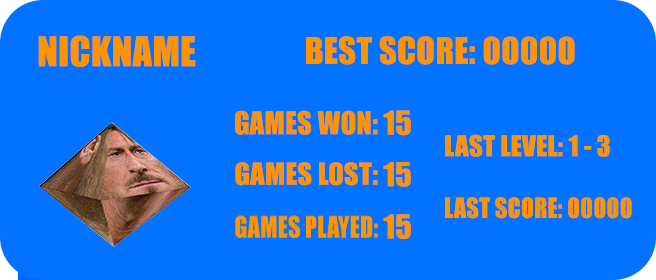
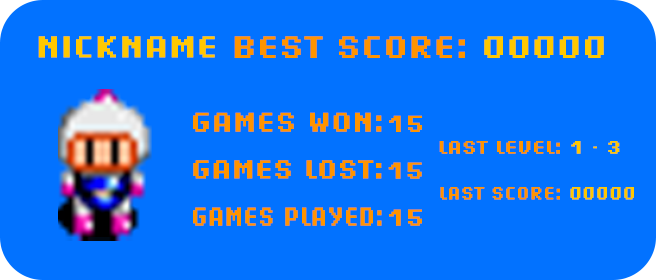
Score ok

diff --git a/src/main/ScoreMenu.java b/src/main/ScoreMenu.java
@@ -4,6 +4,8 @@ import java.awt.Graphics2D;
 import java.awt.Rectangle;
 import java.awt.image.BufferedImage;
 import java.util.ArrayList;
+import java.util.HashMap;
+import java.util.Map;
 import java.awt.BasicStroke;
 import java.awt.Color;
 
@@ -17,62 +19,112 @@ public class ScoreMenu implements Panel{
     KeyHandler keyH = KeyHandler.getInstance(); 
     
     ArrayList<BufferedImage> letters = new ArrayList<>();
+    ArrayList<BufferedImage> numbers = new ArrayList<>();
+    Map<String, BufferedImage> characters = new HashMap<>();
 
-    BufferedImage backgroundImage, difficultyOptionImage, movementOptionImage, backImage, pointerImage, pointerDownImage, pointerUpImage, scoreBox;
-    int boxX, boxY, boxWidth, boxHeight, nicknameX, nicknameY, letterDistance, optionX, optionY, startPointerX, pointerX, pointerY, pointerIndex = 0, pointerWidth, pointerHeight, choosePointerX, choosePointerUpY, choosePointerDownY, choosePointerWidth, choosePointerHeight, borderOffset, borderX, borderHeight, optionWidth, optionHeight, optionDistance, chooseDistance, totOptionNumber;
-    // BufferedImage[] avatarImages = new BufferedImage[2];
+    BufferedImage backgroundImage, backImage, pointerImage, pointerLeftImage, pointerRightImage, scoreBox;
+    int nicknameX, nicknameY, borderOffset, borderX, borderWidth, borderHeight;  // nickname
+    int boxX, boxY, boxWidth, boxHeight, nicknameLetterDistance, gamesLetterDistance, lastLetterDistance;  // box e lettere
+    int bestScoreX, lastInfoX, lastInfoY, gamesInfoX, gamesInfoY, infoDistance; // informazioni
+    int avatarX, avatarY, avatarWidth, avatarHeight;
+    int backImageX, backImageY, backImageWidth, backImageHeight;
+    int startPointerX, startPointerY, pointerX, pointerY, backPointerX, backPointerY, pointerIndex = 0, pointerWidth, pointerHeight, pointerOptionDistance, choosePointerX, choosePointerWidth, choosePointerHeight;
+    int avatarPointerX, avatarPointerY, avatarPointerWidth, avatarPointerHeight, avatarPointerDistance;
+    BufferedImage[] avatarImages = new BufferedImage[4];
     BufferedImage avatarImage;
-    String nicknameString = "user";
-    int selectedAvatarIndex = 1, nicknameLenght = 4, maxNicknameLenght = 10;  // difficulty: normal | movement: keyboard
+    String nicknameString = "nickname", bestScoreString = "00000", lastGameString = "1-2", lastScoreString = "00000", gamesWonString = "00", gamesLostString = "00", gamesPlayedString = "00";
+    int selectedAvatarIndex = 0, totAvatarOption = 4, maxNicknameLenght = 8, scoreLenght = 1, scoreMaxLenght = 6, scoreDefault = 0, totOptionNumber = 3, gpScale;  // difficulty: normal | movement: keyboard
     boolean nicknameSelect = false, avatarSelect = false;
     public ScoreMenu(GamePanel gp){
-        totOptionNumber = 2;
-        boxX = 15*gp.scale;
-        boxY = 15*gp.scale;
+        gpScale = gp.scale;
+        boxX = 15*gpScale;
+        boxY = 15*gpScale;
         boxWidth = gp.screenWidth - boxX*2;
         boxHeight = gp.screenHeight/2;
-        optionWidth = 55*gp.scale; //111*gp.scale / 2
-        optionHeight = 10*gp.scale;
-        nicknameX = (gp.screenWidth - optionWidth*2)/2+ optionWidth;
-        nicknameY = (gp.screenWidth - optionWidth*2)/2 - 140;
-        letterDistance = 16*gp.scale;
-        optionX = (gp.screenWidth - optionWidth*2)/2 ;
-        optionY = (gp.screenHeight - optionHeight)/2 - 140;
-        pointerWidth = 8*gp.scale;
-        pointerHeight = 12*gp.scale;
-        choosePointerWidth = 6*gp.scale;
-        choosePointerHeight = 8*gp.scale;
-        pointerX = optionX - pointerWidth - 3*gp.scale;  // distanza di partenza del pointer
-        startPointerX = optionX - 1*gp.scale;
+        // nickname info
+        nicknameX = 25*gpScale;
+        nicknameY = 30*gpScale;
+        nicknameLetterDistance = 8*gpScale;
+        // nickname border info
+        borderOffset = 2*gpScale;
+        borderWidth = nicknameLetterDistance*8 + borderOffset*2;
+        borderHeight = nicknameLetterDistance + borderOffset*2;
+        // avatar info
+        avatarX = nicknameX + 7*gpScale;
+        avatarY = nicknameY + 20*gpScale;
+        avatarWidth = gp.player.hittableWidth * 2;
+        avatarHeight = gp.player.hittableHeight * 2;
+        // avatar pointer index
+        avatarPointerWidth = 8*gpScale;
+        avatarPointerHeight = 12*gpScale;
+        avatarPointerX = avatarX - 10*gpScale;
+        avatarPointerY = (avatarY + avatarY+avatarHeight)/2 - avatarPointerHeight/2;
+        avatarPointerDistance = avatarWidth + 10*gpScale;
+        // bestScore
+        bestScoreX = gp.screenWidth/2 + 55*gpScale;
+        // last info
+        lastInfoX = boxX + boxWidth- 30*gpScale;
+        lastInfoY = nicknameY + 41*gpScale;
+        lastLetterDistance = 5*gpScale;
+        // games info
+        gamesInfoX = gp.screenWidth/2 + 21*gpScale;
+        gamesInfoY = nicknameY + 31*gpScale;
+        gamesLetterDistance = 7*gpScale;
+        infoDistance = 19*gpScale;
+        // pointer
+        pointerWidth = 8*gpScale;
+        pointerHeight = 12*gpScale;
+        startPointerX = 17*gpScale;
+        startPointerY = 28*gpScale;
         pointerX = startPointerX;
-        optionDistance = 120*gp.scale;   //distanza tra le opzioni
-        chooseDistance = 10*gp.scale;  // disanza tra le scelte e le opzioni
+        pointerY = startPointerY;
+        pointerOptionDistance = nicknameY + 20*gpScale;   //distanza tra le opzioni
+        // back
+        backImageX = gp.screenWidth/2 - 25*gpScale;
+        backImageY = gp.screenHeight/2 + 30*gpScale;
+        backImageWidth = 111*gp.scale;
+        backImageHeight = 10*gp.scale;
+        backPointerX = backImageX - 10*gpScale;
+        backPointerY = backImageY;
+        // chooseDistance = 10*gpScale;  // disanza tra le scelte e le opzioni
         
-        borderOffset = 4*gp.scale;  // distanza tra il rettangolo e il testo
+        /*
+        borderOffset = 4*gpScale;  // distanza tra il rettangolo e il testo
         borderX = optionX+optionWidth+chooseDistance-borderOffset;
         borderHeight = optionHeight+borderOffset*2;
 
         choosePointerX = borderX+(optionWidth/2)-choosePointerWidth/2;
         choosePointerDownY = optionY+optionHeight+borderOffset/2;
         choosePointerUpY = optionY-choosePointerHeight-borderOffset/2;  // posizione del puntatore per le scelte a meta del testo e del bordo del rettangolo
+        */
         try {
+            avatarImages[0] = ImageIO.read(getClass().getResourceAsStream("../res/player/walking white/down2.png"));
+            avatarImages[1] = ImageIO.read(getClass().getResourceAsStream("../res/player/walking blue/down2.png"));
+            avatarImages[2] = ImageIO.read(getClass().getResourceAsStream("../res/player/walking black/down2.png"));
+            avatarImages[3] = ImageIO.read(getClass().getResourceAsStream("../res/player/walking orange/down2.png"));
             for(char ch = 'a'; ch <= 'z'; ++ch){
-                letters.add(ImageIO.read(getClass().getResourceAsStream("../res/letters/"+ch+".png")));
+                // letters.add(ImageIO.read(getClass().getResourceAsStream("../res/letters/"+ch+".png")));
+                characters.put(Character.toString(ch), ImageIO.read(getClass().getResourceAsStream("../res/letters/"+ch+".png")));
             }
+            for(int i = 0; i < 10; ++i){
+                // numbers.add(ImageIO.read(getClass().getResourceAsStream("../res/letters/"+i+".png")));
+                characters.put(Integer.toString(i), ImageIO.read(getClass().getResourceAsStream("../res/letters/"+i+".png")));
+            }
+            characters.put("-", ImageIO.read(getClass().getResourceAsStream("../res/letters/hypen.png")));
+
+
             // ballonImage = ImageIO.read(getClass().getResourceAsStream("../res/menu/Ballon.png"));
             // cloudImage = ImageIO.read(getClass().getResourceAsStream("../res/menu/Cloud.png"));
 
             backgroundImage = ImageIO.read(getClass().getResourceAsStream("../res/menu/Background.png"));
-            movementOptionImage = ImageIO.read(getClass().getResourceAsStream("../res/menu/options/movement.png"));  // scelta movement
             // avatarImages[0] = ImageIO.read(getClass().getResourceAsStream("../res/menu/options/mouseOption.png"));  // scelta mouse
             // avatarImages[1] = ImageIO.read(getClass().getResourceAsStream("../res/menu/options/keyboardOption.png"));  // scelta keyboard
             avatarImage = ImageIO.read(getClass().getResourceAsStream("../res/player/walking white/down2.png"));  // immagine player
             backImage = ImageIO.read(getClass().getResourceAsStream("../res/menu/back.png"));  // back
             pointerImage = ImageIO.read(getClass().getResourceAsStream("../res/menu/pointer.png"));
-            // pointerUpImage = ImageIO.read(getClass().getResourceAsStream("../res/menu/options/pointerLeft.png"));
-            // pointerDownImage = ImageIO.read(getClass().getResourceAsStream("../res/menu/options/pointerRight.png"));
-            difficultyOptionImage = ImageIO.read(getClass().getResourceAsStream("../res/menu/options/difficulty.png"));
-            scoreBox = ImageIO.read(getClass().getResourceAsStream("../res/menu/scoreBoxTest.png"));
+            pointerRightImage = ImageIO.read(getClass().getResourceAsStream("../res/menu/pointer.png"));
+            pointerLeftImage = ImageIO.read(getClass().getResourceAsStream("../res/menu/options/pointerLeft.png"));
+            scoreBox = ImageIO.read(getClass().getResourceAsStream("../res/menu/scoreBox.png"));
             
         } catch (Exception e) {
             e.printStackTrace();
@@ -83,27 +135,27 @@ public class ScoreMenu implements Panel{
         g2.setColor(new Color(0, 0, 255));
         g2.fillRect(0, 0, gp.screenWidth, gp.screenHeight);  // disegna il background
         g2.drawImage(backgroundImage, 0, 0, gp.screenWidth, gp.screenHeight, null);  //Disegna l'etichetta del nickname
-        g2.drawImage(letters.get(0), 100, 100, 15*gp.scale, 15*gp.scale, null);
+        // g2.drawImage(letters.get(0), 100, 100, 15*gpScale, 15*gpScale, null);
         g2.drawImage(scoreBox, boxX, boxY, boxWidth, boxHeight, null);
-        g2.drawImage(movementOptionImage, optionX, optionY, optionWidth, optionHeight, null);  //Disegna l'etichetta delle partite giocate
-        // g2.drawImage(difficultyOptionImage, optionX, optionY+optionDistance, optionWidth, optionHeight, null);  //Disegna l'etichetta delle partite vinte
-        // g2.drawImage(backImage, optionX, optionY+optionDistance*2, optionWidth, optionHeight, null);  //Disegna l'etichetta delle partite perse
-        //g2.drawImage(movementImages[0], borderX, optionY-borderOffset, optionWidth, borderHeight, null);  //Disegna l'etichetta dello score massimo ottenuto
-        //g2.drawImage(movementImages[1], borderX, optionY-borderOffset+optionDistance, optionWidth, borderHeight, null);  //Disegna l'etichetta dell'ultimo score ottenuto
-        //g2.drawImage(difficultyImages[0], borderX, optionY-borderOffset+optionDistance, optionWidth, borderHeight, null);  //Disegna l'etichetta dell'ultimo livello raggiunto
-        // g2.drawImage(pointerImage, pointerX, pointerY, pointerWidth, pointerHeight, null);
+        g2.drawImage(backImage, backImageX, backImageY, backImageWidth, backImageHeight, null);  //Disegna l'opzione back
+        g2.drawImage(avatarImages[selectedAvatarIndex], avatarX, avatarY, avatarWidth, avatarHeight, null);
         // stampa nickname
-        for (int i=0;i<nicknameString.length();i++){
-            // System.out.println(nicknameString.charAt(i)-'a');
-            g2.drawImage(letters.get(nicknameString.charAt(i)-'a'), nicknameX+letterDistance*i, nicknameY, letterDistance, letterDistance, null);
-        }
+        printCharacters(g2, nicknameString, nicknameX, nicknameY, nicknameLetterDistance, nicknameLetterDistance, nicknameLetterDistance);
+        // stampa score
+        printCharacters(g2, bestScoreString, bestScoreX, nicknameY, nicknameLetterDistance, nicknameLetterDistance, nicknameLetterDistance);
+        printCharacters(g2, lastGameString, lastInfoX, lastInfoY, lastLetterDistance, lastLetterDistance, lastLetterDistance);
+        printCharacters(g2, lastScoreString, lastInfoX, lastInfoY+infoDistance, lastLetterDistance, lastLetterDistance, lastLetterDistance);
+        printCharacters(g2, gamesWonString, gamesInfoX, gamesInfoY, gamesLetterDistance, gamesLetterDistance, gamesLetterDistance);
+        printCharacters(g2, gamesLostString, gamesInfoX, gamesInfoY+infoDistance, gamesLetterDistance, gamesLetterDistance, gamesLetterDistance);
+        printCharacters(g2, gamesPlayedString, gamesInfoX, gamesInfoY+infoDistance*2, gamesLetterDistance, gamesLetterDistance, gamesLetterDistance);
+        
         if(!nicknameSelect && !avatarSelect)  // se non ha selezionato nulla disegna il pointer dell'opzione
             g2.drawImage(pointerImage, pointerX, pointerY, pointerWidth, pointerHeight, null);
         if (nicknameSelect){
             //disegna un rettangolo rosso
             g2.setColor(new Color(255, 0, 0));
             g2.setStroke(new BasicStroke(2)); // Imposta lo spessore del bordo a 2
-            g2.drawRect(borderX, optionY-borderOffset, optionWidth, borderHeight);
+            g2.drawRect(nicknameX-borderOffset, nicknameY-borderOffset, borderWidth, borderHeight);
             //Metodo di disegno lettera per lettera a seconda del contenuto di nicknameString
             
         }else if (avatarSelect){
@@ -111,45 +163,66 @@ public class ScoreMenu implements Panel{
             g2.setColor(new Color(255, 0, 0));
             g2.setStroke(new BasicStroke(2)); // Imposta lo spessore del bordo a 2
             // g2.drawRect(borderX, optionY-borderOffset+optionDistance, optionWidth, borderHeight);
+            g2.drawImage(pointerLeftImage, avatarPointerX, avatarPointerY, avatarPointerWidth, avatarPointerWidth, null);
+            g2.drawImage(pointerRightImage, avatarPointerX + avatarPointerDistance, avatarPointerY, avatarPointerWidth, avatarPointerWidth, null);
+            /*
             if(selectedAvatarIndex != 0)  // se mi trovo in una posizione diversa dalla prima disegna la freccia per andare sopra
                 g2.drawImage(pointerUpImage, choosePointerX, choosePointerUpY+optionDistance, choosePointerWidth, choosePointerHeight, null);
             if(selectedAvatarIndex != 2)  // se mi trovo in una posizione diversa dall'ultima disegna la freccia per andare sotto
                 g2.drawImage(pointerDownImage, choosePointerX, choosePointerDownY+optionDistance, choosePointerWidth, choosePointerHeight, null);
+            */
+        }
+    }
+
+    public void printCharacters(Graphics2D g2, String string, int x, int y, int width, int height, int letterDistance){
+        for (int i=0;i<string.length();i++){
+            BufferedImage image = characters.get(Character.toString(string.charAt(i)));
+            g2.drawImage(image, x+letterDistance*i, y, letterDistance, letterDistance, null);
         }
     }
 
     public void chooseOptions(GamePanel gp){
         if(!nicknameSelect && !avatarSelect){  // se ancora non ha selezionato nulla
-            if(keyH.rightPressed){  // se preme a destra
-                System.out.println("destra");
+            System.out.println(pointerIndex);
+            if(keyH.upPressed){  // se preme a destra
                 gp.playSfx(12);  // sound cursore
-                pointerIndex+=1;  // aumenta il pointerIndex per andare alla prossima scelta
-                if (pointerIndex == totOptionNumber){  // se supera il numero di scelte
-                    pointerIndex=0;  // resetta l'index del puntatore e lo fa tornare alla prima scelta
+                pointerIndex--;  // aumenta il pointerIndex per andare alla prossima scelta
+                if (pointerIndex < 0)  // se supera il numero di scelte
+                    pointerIndex = totOptionNumber-1;  // resetta l'index del puntatore e lo fa tornare alla prima scelta
+                if(pointerIndex == 0){
                     pointerX = startPointerX;
-                }else{
-                    pointerX = pointerX+optionDistance;  // altrimenti fa scendere la posizione del puntatore alla scelta successiva
+                    pointerY = startPointerY;
+                }else if(pointerIndex == 1){
+                    pointerX = startPointerX;
+                    pointerY = startPointerY + pointerOptionDistance;
+                }else{  // è il back
+                    pointerX = backPointerX;
+                    pointerY = backPointerY;
                 }
-                keyH.rightPressed = false;
-            }else if(keyH.leftPressed){ 
+                keyH.upPressed = false;
+            }else if(keyH.downPressed){ 
                 System.out.println("sx");
                 gp.playSfx(12);  // sound cursore
-                pointerIndex-=1;
-                if (pointerIndex<0){
-                    pointerIndex=totOptionNumber-1;
-                    pointerX = startPointerX+optionDistance*(totOptionNumber-1);  // vai alla pos dell'ultima opzione
-                }else{
-                    pointerX = pointerX-optionDistance;
+                pointerIndex++;
+                if (pointerIndex == totOptionNumber)  // se supera il numero di scelte
+                    pointerIndex=0;  // resetta l'index del puntatore e lo fa tornare alla prima scelta
+                if(pointerIndex == 0){
+                    pointerX = startPointerX;
+                    pointerY = startPointerY;
+                }else if(pointerIndex == 1){
+                    pointerX = startPointerX;
+                    pointerY = startPointerY + pointerOptionDistance;
+                }else{  // è il back
+                    pointerX = backPointerX;
+                    pointerY = backPointerY;
                 }
-                keyH.leftPressed = false;
+                keyH.downPressed = false;
             }
         }else if(nicknameSelect){
-            System.out.println("nick");
             if (keyH.backspacePressed){
                 if(nicknameString.length() > 0){
                     gp.playSfx(12);  // sound cursore
                     nicknameString = nicknameString.substring(0, nicknameString.length()-1);
-                    nicknameLenght -= 1;
                 }
                 keyH.backspacePressed = false;
             }
@@ -158,56 +231,49 @@ public class ScoreMenu implements Panel{
                 if(nicknameString.length() < maxNicknameLenght){
                     gp.playSfx(12);  // sound cursore
                     nicknameString += keyH.getLetter();
-                    nicknameLenght += 1;
                 }
             }
         }else if(avatarSelect){
-            if(keyH.downPressed && avatarSelect){
+            if(keyH.leftPressed && avatarSelect){
                 gp.playSfx(12);  // sound cursore
-                if(selectedAvatarIndex == 0)  // se sto alla prima opzione (mouse)
-                    selectedAvatarIndex = 1;  // va all'opzione successiva (keyboard)
-                System.out.println("Movimento: "+ selectedAvatarIndex);
-                keyH.downPressed = false;
+                selectedAvatarIndex--;
+                if(selectedAvatarIndex < 0)  // se va prima del primo avatar
+                    selectedAvatarIndex = totAvatarOption-1;  // va all'ultimo avatar
+                System.out.println("Avatar: "+ selectedAvatarIndex);
+                keyH.leftPressed = false;
             }
-            else if(keyH.upPressed && nicknameSelect){
+            else if(keyH.rightPressed && avatarSelect){
                 gp.playSfx(12);  // sound cursore
-                if(selectedAvatarIndex == 1)  // se sto all'ultima opzione (keyboard)
-                    selectedAvatarIndex = 0;  // va all'opzione precedente (mouse)
-                System.out.println("Movimento: "+ selectedAvatarIndex);
-                keyH.upPressed = false;
+                selectedAvatarIndex++;
+                if(selectedAvatarIndex == totAvatarOption)  // se supera l'ultimo avatar
+                    selectedAvatarIndex = 0;  // torna al primo
+                System.out.println("avatar: "+ selectedAvatarIndex);
+                keyH.rightPressed = false;
             }
         }
         // quando preme invio
         if(keyH.pausePressed){
             gp.playSfx(11);  // sound invio selezione
             if(pointerIndex==0){  // scelta difficolta
-                System.out.println("INVIOOOOOO NICK");
                 if (nicknameSelect){  // se è già selezionato
                     nicknameSelect = false;  // deseleziona e il pointer torna alla posizione iniziale
                 }
                 else{
                     nicknameSelect = true;  // altrimenti permette di selezionare come muoversi
                 }
-                keyH.pausePressed = false;
-
-            }
             }else if(pointerIndex==1){  // scelta movimento
-                System.out.println("INVIOOOOOO");
                 if (avatarSelect){  // se è già selezionato
                     avatarSelect = false;  // deseleziona e il pointer torna alla posizione iniziale
                 }
                 else{
                     avatarSelect = true;  // altrimenti permette di selezionare come muoversi
-                }
-                keyH.pausePressed = false; /*
-            else if(pointerIndex==2){  // back
-                //disegna transizione
-                gp.gameDifficulty = difficultyStrings[selectedDifficultyIndex];
+                } 
+            }else if(pointerIndex==2){  // back
+                //disegna transizione 
                 // gp.player.movementBehaviour = avatarChoice[selectedAvatarIndex];
-                System.out.println("Scelta difficolta: "+ gp.gameDifficulty);
                 gp.currentPanel = new StartMenu(gp);
-                keyH.pausePressed = false;
-            }*/
+            }
+            keyH.pausePressed = false; 
         }
     }
 }

diff --git a/src/main/StartMenu.java b/src/main/StartMenu.java
@@ -134,13 +134,15 @@ public class StartMenu implements Panel{
                 gp.playSfx(11);  // sound invio selezione
                 //disegna transizione
                 scoreMenu = true;
-                gp.currentPanel = new ScoreMenu(gp);
                 keyH.pausePressed = false;
             }
-        }else if(!startGame && optionMenu){
+        }else if(!startGame && (optionMenu || scoreMenu)){
             titleY -= 11;
             if(titleHeight+titleY<0){
-                gp.currentPanel = new OptionMenu(gp);
+                if(optionMenu)
+                    gp.currentPanel = new OptionMenu(gp);
+                else if(scoreMenu)
+                    gp.currentPanel = new ScoreMenu(gp);
             }
         }
     }
